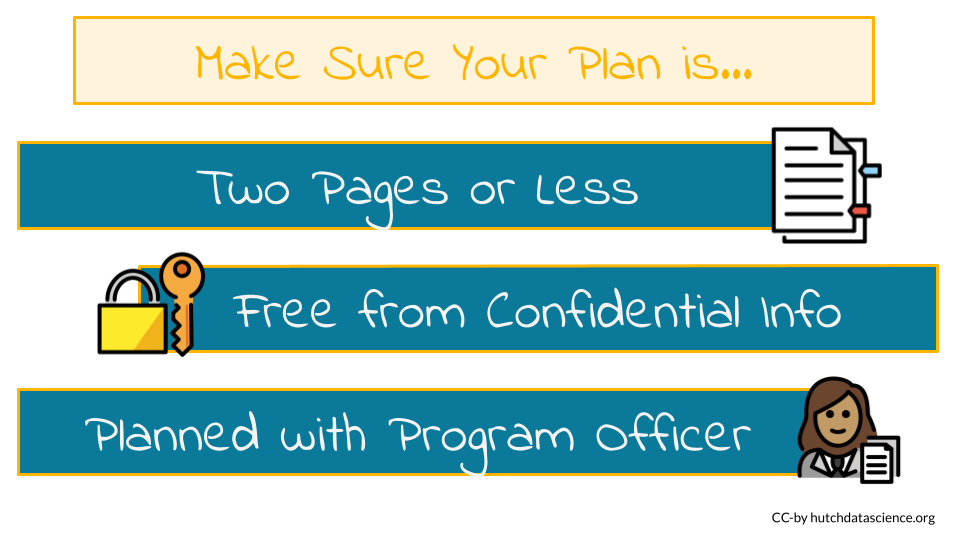
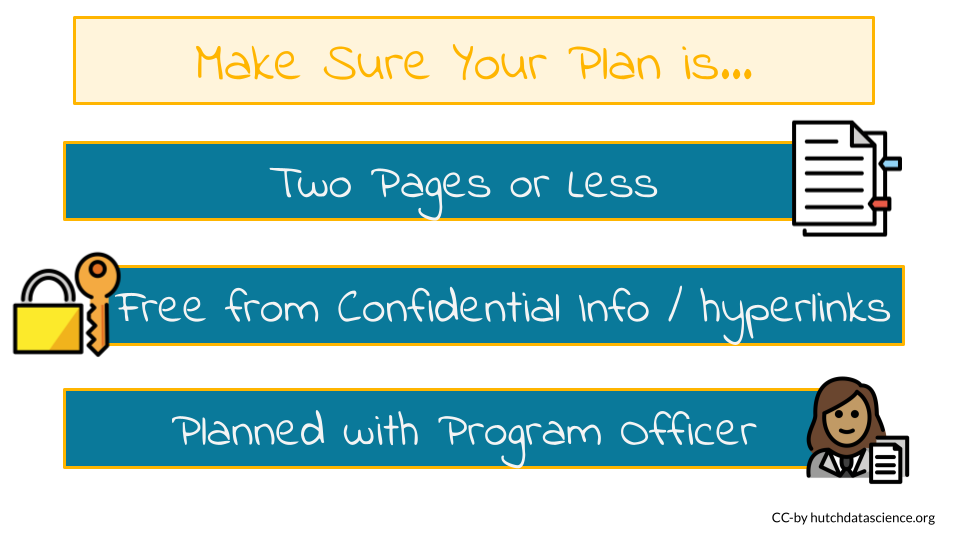
Render bookdown

Changed region(s): [[0.0, 0.2074, 1.0, 0.6815], [0.0, 0.6815, 0.9688, 0.8889]]

diff --git a/docs/further-reading.html b/docs/further-reading.html
@@ -23,7 +23,7 @@
 
 
 
-<meta name="date" content="2022-12-20" />
+<meta name="date" content="2023-01-16" />
 
   <meta name="viewport" content="width=device-width, initial-scale=1" />
   <meta name="apple-mobile-web-app-capable" content="yes" />
@@ -231,6 +231,7 @@ div.csl-indent {
 <li><span class="citation">Cosgriff, Ebner, and Celi (<a href="references.html#ref-cosgriff_citation_2020" role="doc-biblioref">2020</a>)</span> - The promise of shared data for addressing public health emergencies, such as the SARS-CoV-2 pandemic</li>
 <li><span class="citation">McKiernan et al. (<a href="references.html#ref-mckiernan_citation_2016" role="doc-biblioref">2016</a>)</span> - Data sharing can help advance careers through increases in citations, media attention, potential collaborators, job opportunities, and funding opportunities</li>
 <li><span class="citation">Piwowar, Vision, and Whitlock (<a href="references.html#ref-piwowar_citation_2011" role="doc-biblioref">2011</a>)</span> - Investing in data storage and archiving is a good investment of grant funds</li>
+<li><span class="citation">(<a href="#ref-sansone_fairsharing_2019" role="doc-biblioref"><strong>sansone_fairsharing_2019?</strong></a>)</span> - FAIRsharing as a community approach to standards, repositories and policies</li>
 <li><span class="citation">Tenopir (<a href="references.html#ref-tenopir_citation_2020" role="doc-biblioref">2020</a>)</span> - Most scientists view data sharing favorably; A majority feel lack of access impedes scientific progress</li>
 <li><span class="citation">Vesteghem et al. (<a href="references.html#ref-vesteghem_citation_2020" role="doc-biblioref">2020</a>)</span> - Findable, Accessible, Interoperable and Reusable (FAIR) Data Principles and their importance to precision oncology</li>
 <li><span class="citation">Wilkinson et al. (<a href="references.html#ref-wilkinson_citation_2016" role="doc-biblioref">2016</a>)</span> - Good data management is key to knowledge discovery and innovation; four foundational principles — Findability, Accessibility, Interoperability, and Reusability — can help guide data producers and publishers</li>

diff --git a/docs/index.html b/docs/index.html
@@ -23,7 +23,7 @@
 
 
 
-<meta name="date" content="2022-12-20" />
+<meta name="date" content="2023-01-16" />
 
   <meta name="viewport" content="width=device-width, initial-scale=1" />
   <meta name="apple-mobile-web-app-capable" content="yes" />
@@ -223,7 +223,7 @@ div.csl-indent {
 </div>
 <div id="header">
 <h1 class="title">NIH Data Management and Sharing Policy</h1>
-<p class="date"><em>December 20, 2022</em></p>
+<p class="date"><em>January 16, 2023</em></p>
 </div>
 <div id="about-this-course" class="section level1 unnumbered">
 <h1>About this Course</h1>
@@ -275,7 +275,7 @@ div.csl-indent {
 <p><strong>How do I budget this?</strong> You may request funds for data management and sharing as direct costs (including personnel costs). Infrastructure costs should only be included as indirect costs.</p>
 </div>
 <div class="plan">
-<p><strong>How do I write my plan?</strong> Your plan should be &lt; 2 pages and include sections on data type; tools, software, and code; standards; data preservation, access, and timelines; access, distribution, and reuse considerations; and oversight. <strong>You may be able to change your plan</strong> in the just-in-time process or during regular reporting intervals. Changes require approval.</p>
+<p><strong>How do I write my plan?</strong> Your plan should be &lt; 2 pages (without hyperlinks) and include sections on data type; tools, software, and code; standards; data preservation, access, and timelines; access, distribution, and reuse considerations; and oversight. <strong>You may be able to change your plan</strong> in the just-in-time process or during regular reporting intervals. Changes require approval.</p>
 </div>
 <div class="submit">
 <p><strong>Will my plan influence my grant score?</strong> Although the Data Management and Sharing Plan is a mandatory part of most grant proposals, it will not be shared with reviewers and thus will not influence your score, however the budget will be visible to reviewers.</p>

diff --git a/docs/additional-resources.html b/docs/additional-resources.html
@@ -23,7 +23,7 @@
 
 
 
-<meta name="date" content="2022-12-20" />
+<meta name="date" content="2023-01-16" />
 
   <meta name="viewport" content="width=device-width, initial-scale=1" />
   <meta name="apple-mobile-web-app-capable" content="yes" />
@@ -223,6 +223,7 @@ div.csl-indent {
 </div>
 <div id="additional-resources" class="section level1 unnumbered">
 <h1>Additional Resources</h1>
+<p>The NIH provides <a href="https://sharing.nih.gov/data-management-and-sharing-policy/planning-and-budgeting-for-data-management-and-sharing/writing-a-data-management-and-sharing-plan#sample-plans">example DMS plans</a> to help those who are writing their own.</p>
 <p>Librarians and other stakeholders have joined minds to produce guidance materials for researchers, libraries, and librarians to prepare for the 2023 NIH Data Management and Sharing Policy. This working group has created documents for librarians and researchers to use in their institutions as they work to comply with the new policy, including:</p>
 <ul>
 <li><p>Glossaries of DMSP &amp; NIH Grant Terminology</p></li>
@@ -254,6 +255,7 @@ div.csl-indent {
 </ul></li>
 <li><a href="https://www.cogr.edu/chapter-2-nih-data-management-and-sharing-policy-matrix">Council on Government Relations (COGR)</a> - additional information about policy requirements</li>
 </ul>
+<p>Also if you submit your data to dbGaP, you may find this <a href="https://www.whi.org/doc/WHI-dbGaP-Guidelines.pdf">guide</a> a useful resource.</p>
 </div>
 <hr>
 <center>

diff --git a/docs/how-will-this-policy-affect-me.html b/docs/how-will-this-policy-affect-me.html
@@ -23,7 +23,7 @@
 
 
 
-<meta name="date" content="2022-12-20" />
+<meta name="date" content="2023-01-16" />
 
   <meta name="viewport" content="width=device-width, initial-scale=1" />
   <meta name="apple-mobile-web-app-capable" content="yes" />
@@ -263,7 +263,7 @@ div.csl-indent {
 <li>Resource (G)</li>
 <li>Research-Related Infrastructure Programs (e.g., S06)</li>
 </ul>
-<p>You can look up your NIH Activity Code <a href="https://sharing.nih.gov/sites/default/files/List-of-Activity-Codes-Applicable-to-DMS-Policy.pdf" target="_blank">here</a> to see if you are required to submit a DMS Plan.</p>
+<p>You can look up your NIH Activity Code <a href="https://sharing.nih.gov/node/112" target="_blank">here</a> to see if you are required to submit a DMS Plan.</p>
 <p>For example, I am interested in applying to a <strong>R03</strong> award.</p>
 <p><img src="resources/images/01-intro_files/figure-html/1luFoDzF6aDJEebbL6iWoJ_s8s9nQnaWLL5jghbmWdak_g1740f401082_0_56.png" title="I can find the R03 activity code in the request for applications." alt="I can find the R03 activity code in the request for applications." width="80%" style="display: block; margin: auto;" /></p>
 <p>According to the table, a <strong>DMS Plan is required</strong> for this particular award.</p>

diff --git a/docs/faq.html b/docs/faq.html
@@ -23,7 +23,7 @@
 
 
 
-<meta name="date" content="2022-12-20" />
+<meta name="date" content="2023-01-16" />
 
   <meta name="viewport" content="width=device-width, initial-scale=1" />
   <meta name="apple-mobile-web-app-capable" content="yes" />
@@ -223,7 +223,7 @@ div.csl-indent {
 </div>
 <div id="faq" class="section level1 unnumbered">
 <h1>FAQ</h1>
-<p>The official NIH DMS Policy FAQ page can be found here: <a href="https://osp.od.nih.gov/scientific-sharing/nih-policy-for-data-management-and-sharing-faq/" target="_blank"><code>https://osp.od.nih.gov/scientific-sharing/nih-policy-for-data-management-and-sharing-faq/</code></a>.</p>
+<p>The official NIH DMS Policy FAQ page can be found here: <a href="https://sharing.nih.gov/faqs#/data-management-and-sharing-policy.htm" target="_blank"><code>https://sharing.nih.gov/faqs#/data-management-and-sharing-policy.htm</code></a>.</p>
 </div>
 <hr>
 <center>

diff --git a/docs/tools-used-for-this-course.html b/docs/tools-used-for-this-course.html
@@ -23,7 +23,7 @@
 
 
 
-<meta name="date" content="2022-12-20" />
+<meta name="date" content="2023-01-16" />
 
   <meta name="viewport" content="width=device-width, initial-scale=1" />
   <meta name="apple-mobile-web-app-capable" content="yes" />
@@ -233,7 +233,7 @@ div.csl-indent {
 ##  collate  en_US.UTF-8                 
 ##  ctype    en_US.UTF-8                 
 ##  tz       Etc/UTC                     
-##  date     2022-12-20                  
+##  date     2023-01-16                  
 ## 
 ## ─ Packages ───────────────────────────────────────────────────────────────────
 ##  package     * version    date       lib source                            

diff --git a/docs/writing-a-dms-plan.html b/docs/writing-a-dms-plan.html
@@ -23,7 +23,7 @@
 
 
 
-<meta name="date" content="2022-12-20" />
+<meta name="date" content="2023-01-16" />
 
   <meta name="viewport" content="width=device-width, initial-scale=1" />
   <meta name="apple-mobile-web-app-capable" content="yes" />
@@ -247,7 +247,7 @@ div.csl-indent {
 </div>
 <div id="general-requirements" class="section level2" number="6.2">
 <h2><span class="header-section-number">6.2</span> General Requirements</h2>
-<p>☑ The plan must be <strong>less than 2 pages</strong>.</p>
+<p>☑ The plan must be <strong>less than 2 pages</strong> and do not include <a href="https://en.wikipedia.org/wiki/Hyperlink">hyperlinks</a>.</p>
 <ul>
 <li><em>Follow margin and font formatting restrictions consistent with the rest of the proposal</em>.</li>
 </ul>

diff --git a/docs/404.html b/docs/404.html
@@ -23,7 +23,7 @@
 
 
 
-<meta name="date" content="2022-12-20" />
+<meta name="date" content="2023-01-16" />
 
   <meta name="viewport" content="width=device-width, initial-scale=1" />
   <meta name="apple-mobile-web-app-capable" content="yes" />

diff --git a/docs/about-the-authors.html b/docs/about-the-authors.html
@@ -23,7 +23,7 @@
 
 
 
-<meta name="date" content="2022-12-20" />
+<meta name="date" content="2023-01-16" />
 
   <meta name="viewport" content="width=device-width, initial-scale=1" />
   <meta name="apple-mobile-web-app-capable" content="yes" />

diff --git a/docs/budgeting-for-data-sharing.html b/docs/budgeting-for-data-sharing.html
@@ -23,7 +23,7 @@
 
 
 
-<meta name="date" content="2022-12-20" />
+<meta name="date" content="2023-01-16" />
 
   <meta name="viewport" content="width=device-width, initial-scale=1" />
   <meta name="apple-mobile-web-app-capable" content="yes" />

diff --git a/docs/data-file-size-details.html b/docs/data-file-size-details.html
@@ -23,7 +23,7 @@
 
 
 
-<meta name="date" content="2022-12-20" />
+<meta name="date" content="2023-01-16" />
 
   <meta name="viewport" content="width=device-width, initial-scale=1" />
   <meta name="apple-mobile-web-app-capable" content="yes" />

diff --git a/docs/data-management-and-storage.html b/docs/data-management-and-storage.html
@@ -23,7 +23,7 @@
 
 
 
-<meta name="date" content="2022-12-20" />
+<meta name="date" content="2023-01-16" />
 
   <meta name="viewport" content="width=device-width, initial-scale=1" />
   <meta name="apple-mobile-web-app-capable" content="yes" />
